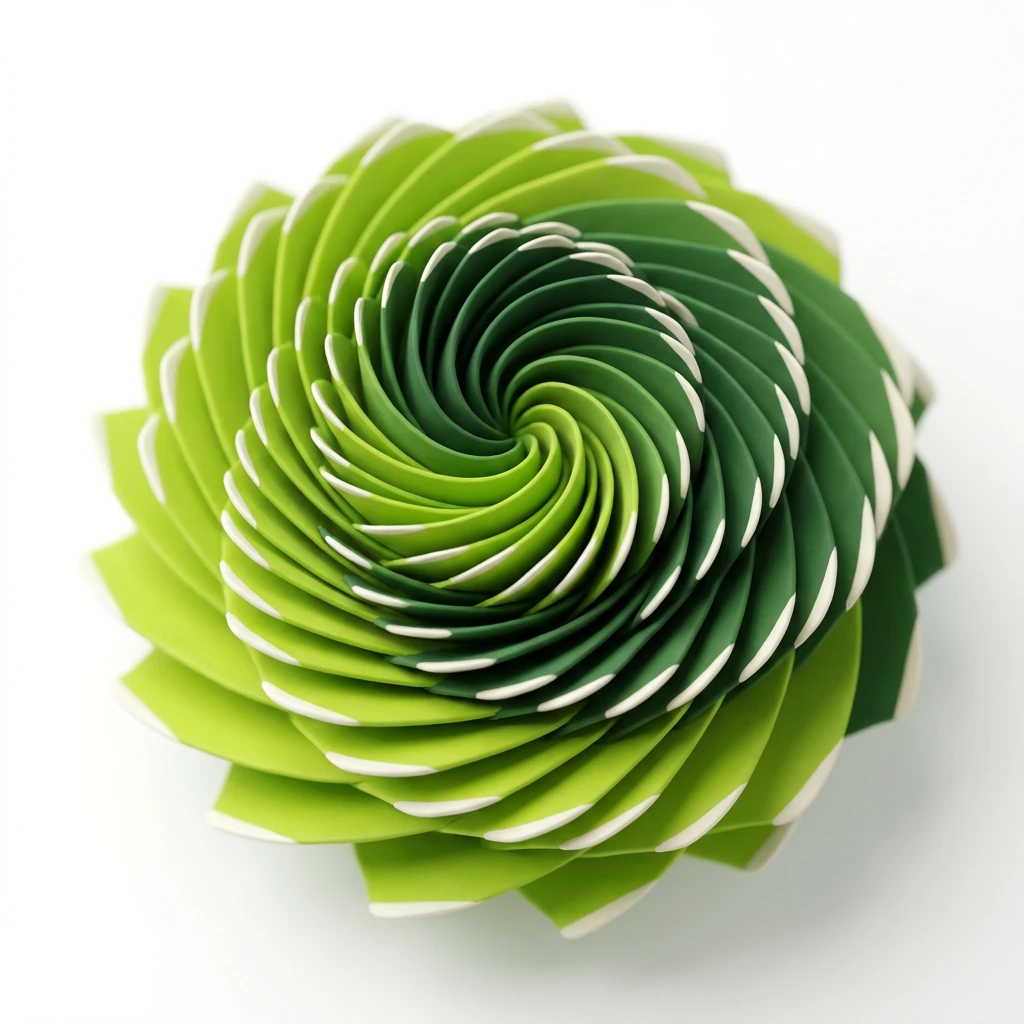
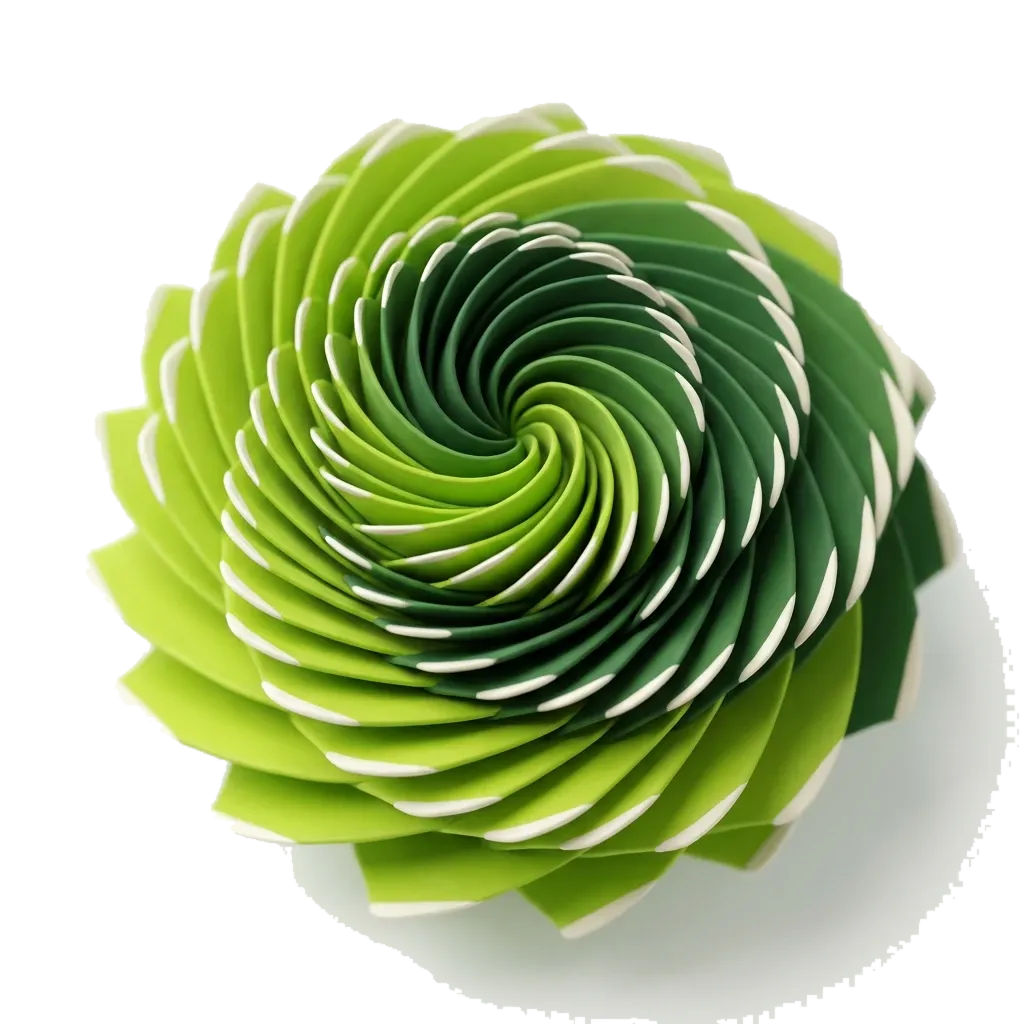
fix: transparent flower cutout + bleed-off-bottom hero placement
Match the reference composition more closely:
- Flood-fill the render's white/grey background to transparent (PNG+WebP),
  preserving the white petal rims. Kills the visible grey square that
  showed against the hero's faint blue-tinted background.
- Oversize the flower (clamp up to 580px) and anchor it to the bottom of
  the hero stage with overflow:hidden, so it bleeds off the edge like the
  reference render instead of sitting small and fully contained.
- Reposition floating stat cards to frame the larger flower; remove
  negative offsets that would clip under overflow:hidden.

https://claude.ai/code/session_01Xf1pcvFR6t8Wr1XQ4gipgJ

diff --git a/components/sections/buyer-landing/buyer-landing.module.css b/components/sections/buyer-landing/buyer-landing.module.css
@@ -318,25 +318,28 @@
 .heroStage {
   position: relative;
   width: 100%;
-  max-width: 880px;
-  height: 460px;
-  margin: 44px auto 0;
+  max-width: 920px;
+  height: clamp(430px, 50vw, 560px);
+  margin: 40px auto 0;
+  /* Clip the bottom so the oversized flower bleeds off the edge, the way
+     the reference render is cut by the hero card. */
+  overflow: hidden;
 }
 
-/* Spiral-flower SVG centrepiece */
+/* Spiral-flower render centrepiece — oversized, anchored to the bottom. */
 .orbWrap {
   position: absolute;
   inset: 0;
   display: flex;
-  align-items: center;
+  align-items: flex-end;
   justify-content: center;
 }
 .orbFlower {
-  width: 340px;
-  height: 340px;
-  object-fit: contain;
+  width: clamp(380px, 48vw, 580px);
+  height: auto;
+  margin-bottom: clamp(-110px, -9vw, -70px);
   animation: orbFloat 9s ease-in-out infinite;
-  filter: drop-shadow(0 22px 48px rgba(27, 94, 32, 0.22));
+  filter: drop-shadow(0 26px 54px rgba(27, 94, 32, 0.18));
 }
 
 /* Floating stat cards */
@@ -392,11 +395,11 @@
   color: #1e9e44;
 }
 
-.fcardA { top: 30px; left: 0; animation: bob 7s ease-in-out infinite; }
-.fcardB { top: 8px; right: 8px; animation: bob 8s ease-in-out infinite 0.6s; }
-.fcardC { top: 188px; left: -8px; animation: bob 9s ease-in-out infinite 1.1s; }
-.fcardD { bottom: 40px; right: 0; animation: bob 7.5s ease-in-out infinite 0.3s; }
-.fcardE { bottom: 6px; left: 60px; animation: bob 8.5s ease-in-out infinite 0.9s; }
+.fcardA { top: 24px; left: 0; animation: bob 7s ease-in-out infinite; }
+.fcardB { top: 6px; right: 4px; animation: bob 8s ease-in-out infinite 0.6s; }
+.fcardC { top: 196px; left: 0; animation: bob 9s ease-in-out infinite 1.1s; }
+.fcardD { bottom: 70px; right: 0; animation: bob 7.5s ease-in-out infinite 0.3s; }
+.fcardE { bottom: 84px; left: 24px; animation: bob 8.5s ease-in-out infinite 0.9s; }
 
 @keyframes bob {
   0%, 100% { transform: translateY(0); }
@@ -453,12 +456,12 @@
     padding: 112px 20px 40px;
   }
   .heroStage {
-    height: 380px;
+    height: 360px;
     max-width: 460px;
   }
   .orbFlower {
-    width: 240px;
-    height: 240px;
+    width: 320px;
+    margin-bottom: -56px;
   }
   /* Trim the two outer cards on small screens to avoid clutter/overflow */
   .fcardC,
@@ -467,7 +470,7 @@
   }
   .fcardA { top: 6px; left: 0; }
   .fcardB { top: 0; right: 0; }
-  .fcardD { bottom: 18px; right: 0; }
+  .fcardD { bottom: 40px; right: 0; }
 }
 
 @media (max-width: 420px) {